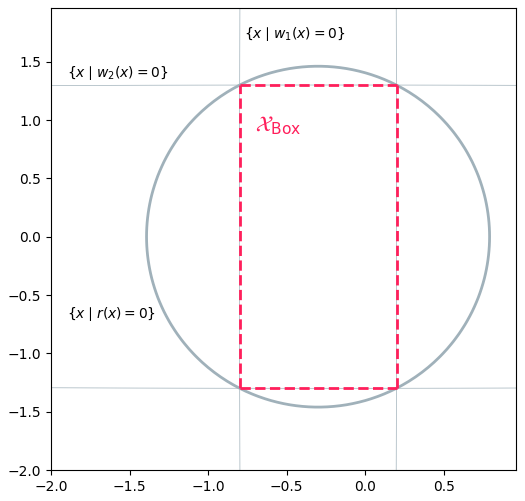
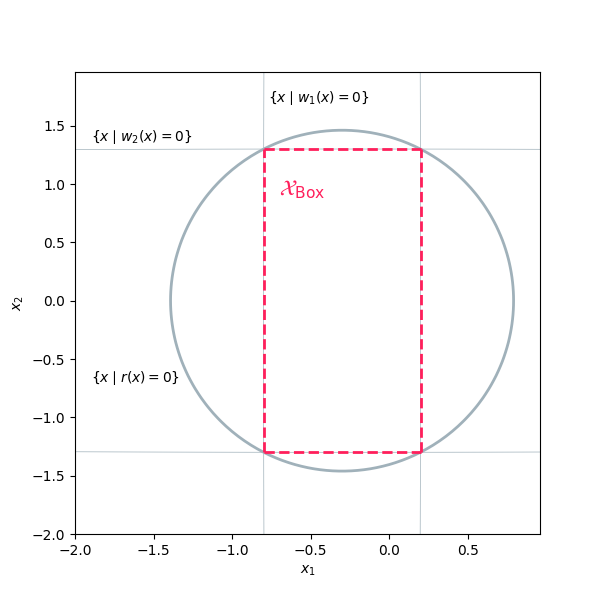
Update the examples to reflect latest library changes.

diff --git a/sosopt/polynomialconstraints/constraintprimitives/sumofsquaresprimitive.py b/sosopt/polynomialconstraints/constraintprimitives/sumofsquaresprimitive.py
@@ -10,12 +10,17 @@ from polymat.typing import (
 )
 
 from sosopt.coneconstraints.semidefiniteconstraint import init_semi_definite_constraint
-from sosopt.polymat.from_ import square_matricial_representation
+from sosopt.polymat.from_ import (
+    square_matricial_representation,
+    square_matricial_representation_sparse,
+)
 from sosopt.polynomialconstraints.constraintprimitives.polynomialconstraintprimitive import (
     PolynomialConstraintPrimitive,
 )
 from sosopt.polymat.decisionvariablesymbol import DecisionVariableSymbol
-from sosopt.polynomialconstraints.polynomialvariablesmixin import PolynomialVariablesMixin
+from sosopt.polynomialconstraints.polynomialvariablesmixin import (
+    PolynomialVariablesMixin,
+)
 
 
 @dataclassabc(frozen=True, slots=True)
@@ -27,8 +32,9 @@ class SumOfSquaresPrimitive(PolynomialVariablesMixin, PolynomialConstraintPrimit
 
     def gram_matrix(self, sparse_gram: bool):
         if sparse_gram:
-            return self.expression.to_gram_matrix(
-                self.polynomial_variable
+            return square_matricial_representation_sparse(
+                expression=self.expression,
+                variables=self.polynomial_variable,
             ).cache()
         else:
             return square_matricial_representation(
@@ -38,12 +44,12 @@ class SumOfSquaresPrimitive(PolynomialVariablesMixin, PolynomialConstraintPrimit
 
     def copy(self, /, **others):
         return replace(self, **others)
-    
+
     @override
     def to_cone_constraint(self, settings: dict):
         return init_semi_definite_constraint(
             name=self.name,
-            expression=self.gram_matrix(settings['sparse_gram']),
+            expression=self.gram_matrix(settings["sparse_gram"]),
             decision_variable_symbols=self.decision_variable_symbols,
         )
 

diff --git a/examples/readmeexample_plot.py b/examples/readmeexample_plot.py
@@ -1,7 +1,10 @@
 import numpy as np
 import numpy.matlib
 from matplotlib import pyplot
+
 import polymat
+from polymat.typing import State
+
 import sosopt
 
 state = polymat.init_state()
@@ -10,8 +13,11 @@ variable_names = ("x_1", "x_2", "x_3")
 x1, x2, x3 = tuple(polymat.define_variable(name) for name in variable_names)
 x = polymat.v_stack((x1, x2, x3))
 
-w1 = ((x1 + 0.3) / 0.5) ** 2 + (x2 / 20) ** 2 + (x3 / 20) ** 2 - 1
-w2 = ((x1 + 0.3) / 20) ** 2 + (x2 / 1.3) ** 2 + (x3 / 1.3) ** 2 - 1
+# w1 = ((x1 + 0.3) / 0.5) ** 2 + (x2 / 20) ** 2 + (x3 / 20) ** 2 - 1
+# w2 = ((x1 + 0.3) / 20) ** 2 + (x2 / 1.3) ** 2 + (x3 / 1.3) ** 2 - 1
+
+w1 = ((x1 + 0.3) / 0.5) ** 2 - 1
+w2 = (x2 / 1.3) ** 2 + (x3 / 1.3) ** 2 - 1
 
 r_var = sosopt.define_polynomial(
     name="r",
@@ -22,7 +28,7 @@ r = r_var - 1
 state, sympy_repr = polymat.to_sympy(r).apply(state)
 print(f"r={sympy_repr}")
 
-state, constraint = sosopt.psatz_putinar_constraint(
+state, constraint = sosopt.quadratic_module_constraint(
     name="rpos",
     smaller_than_zero=r,
     domain=sosopt.set_(
@@ -33,13 +39,13 @@ state, constraint = sosopt.psatz_putinar_constraint(
     ),
 ).apply(state)
 
-Qr_diag = r.to_gram_matrix(x).diag()
+Qr_diag = sosopt.gram_matrix(r, x).diag()
 
 problem = sosopt.sos_problem(
     lin_cost=-Qr_diag.sum(),
     quad_cost=Qr_diag,
     constraints=(constraint,),
-    solver=sosopt.cvx_opt_solver,
+    solver=sosopt.cvxopt_solver,
 )
 
 state, sos_result = problem.solve().apply(state)
@@ -90,4 +96,8 @@ ax.text(-1.9, 1.37, r'$\{x \mid w_2(x) = 0 \}$')
 ax.text(-1.9, -0.7, r'$\{x \mid r(x) = 0 \}$')
 ax.text(-0.7, 0.9, r'$\mathcal{X}_\text{Box}$', fontsize=16, color="#FF1F5B")
 
+ax.set_xlabel('$x_1$')
+ax.set_ylabel('$x_2$')
+
 pyplot.show()
+# fig.savefig('sosoptexample.pdf', bbox_inches='tight')

diff --git a/examples/debugconicproblem.py b/examples/debugconicproblem.py
@@ -31,7 +31,7 @@ print(f'r={sympy_repr}')
 
 # Apply Putinar's Positivstellensatz to ensure the cylindrical constraints (w1 and w2) 
 # are contained within the zero sublevel set of r.
-state, constraint = sosopt.sos_constraint_putinar(
+state, constraint = sosopt.quadratic_module_constraint(
     name="rpos",
     smaller_than_zero=r,
     domain=sosopt.set_(
@@ -43,20 +43,18 @@ state, constraint = sosopt.sos_constraint_putinar(
 ).apply(state)
 
 # Minimize the volume surrogate of the zero-sublevel set of r
-Qr_diag = r.to_gram_matrix(x).diag()
+Qr_diag = sosopt.gram_matrix(r, x).diag()
 
 # Define the SOS problem
 problem = sosopt.sos_problem(
     lin_cost=-Qr_diag.sum(),
     quad_cost=Qr_diag,
     constraints=(constraint,),
-    solver=sosopt.cvx_opt_solver,   # choose solver
+    solver=sosopt.cvxopt_solver,   # choose solver
     # solver=sosopt.mosek_solver,
 )
 
-conic_problem = problem.to_conic_problem()
-
-state, args = conic_problem.to_solver_args().apply(state)
+state, args = problem.to_solver_args().apply(state)
 
 # Conic problem summary
 #######################

diff --git a/examples/readmeexample.py b/examples/readmeexample.py
@@ -30,7 +30,7 @@ print(f'r={sympy_repr}')
 
 # Apply Putinar's Positivstellensatz to ensure the box-like set, encoded by w1 and w2, 
 # is contained within the zero sublevel set of r(x).
-state, constraint = sosopt.psatz_putinar_constraint(
+state, constraint = sosopt.quadratic_module_constraint(
     name="rpos",
     smaller_than_zero=r,
     domain=sosopt.set_(
@@ -42,14 +42,14 @@ state, constraint = sosopt.psatz_putinar_constraint(
 ).apply(state)
 
 # Minimize the volume surrogate of the zero-sublevel set of r(x)
-Qr_diag = r.to_gram_matrix(x).diag()
+Qr_diag = sosopt.gram_matrix(r, x).diag()
 
 # Define the SOS problem
 problem = sosopt.sos_problem(
     lin_cost=-Qr_diag.sum(),
     quad_cost=Qr_diag,
     constraints=(constraint,),
-    solver=sosopt.cvx_opt_solver,   # choose solver
+    solver=sosopt.cvxopt_solver,   # choose solver
     # solver=sosopt.mosek_solver,
 )
 

diff --git a/sosopt/solvers/solveargs.py b/sosopt/solvers/solveargs.py
@@ -36,7 +36,7 @@ class SolverArgs(NamedTuple):
 
     def to_summary(self):
         def gen_summary():
-            yield f'Number of variables: {self.n_var}'
+            yield f'Number of decision variables: {self.n_var}'
             yield f'Quadratic cost: {self.quad_cost is not None}'
 
             if self.semidef_cone:

diff --git a/sosopt/sosproblem.py b/sosopt/sosproblem.py
@@ -77,6 +77,9 @@ class SOSProblem:
 
         return statemonad.get_map_put(_to_conic_problem)
 
+    def to_solver_args(self):
+        return self.to_conic_problem().flat_map(lambda p: p.to_solver_args())
+
     def solve(self):
         return self.to_conic_problem().flat_map(lambda p: p.solve())
 

diff --git a/README.md b/README.md
@@ -88,27 +88,37 @@ Q = sosopt.define_polynomial(
 The polynomial constraints in the SOS problem can be defined in **SOSOpt** as follows:
 
 - **Equality Constraint**: This constraint enforces a polynomial expression to be equal to zero.
+    The following constraint:
     ``` python
     r_zero_constraint = sosopt.zero_polynomial_constraint(
         name='r_zero',
         equal_to_zero=r,
     )
     ```
+    enforces the equality constraint:
+    $$r(x) = 0.$$
 - **SOS Constraint**: This constraint ensures that a scalar polynomial expression belongs to the SOS Cone.
+    The following constraint:
     ``` python
     r_sos_constraint = sosopt.sos_constraint(
         name='r_sos',
         greater_than_zero=r,
     )
     ```
-- **SOS Matrix Constraint**: The constraint ensures a polynomial matrix expression belongs to the SOS Matrix Cone.
+    enforces the SOS constraint:
+    $$r(x) \in \Sigma[x].$$
+- **SOS Matrix Constraint**: This constraint ensures a polynomial matrix expression belongs to the SOS Matrix Cone.
+    The following constraint:
     ``` python
     q_sos_constraint = sosopt.sos_matrix_constraint(
         name='q_sos',
         greater_than_zero=q,
     )
     ```
-- **Quadratic Module Constraint**: The constraint defines a non-negativity condition on a subset of the states space using a quadratic module.
+    enforces the SOS constraint:
+    $$v^\top q(x) v \in \Sigma[x, v].$$
+- **Quadratic Module Constraint**: This constraint defines a non-negativity condition on a subset of the states space using a quadratic module construction following Putinar's Positivstellensatz.
+    The following constraint:
     ``` python
     r_qm_constraint = sosopt.quadratic_module_constraint(
         name='r_qm',
@@ -118,6 +128,9 @@ The polynomial constraints in the SOS problem can be defined in **SOSOpt** as fo
         )
     )
     ```
+    enforces the SOS constraints:
+    $$\gamma_w(x) \in \Sigma[x]$$
+    $$r(x) + \gamma_w(x) w(x) \in \Sigma[x].$$
 
 ### Defining an SOS Problem
 
@@ -138,7 +151,7 @@ problem = sosopt.sos_problem(
     lin_cost=Q.trace(),
     quad_cost=Q.diag(),
     constraints=(r_sos_constraint,),
-    solver=solver,
+    solver=polymat.cvxopt_solver,
 )
 
 # solve SOS problem
@@ -188,7 +201,7 @@ However, for a large matrix $Q_p$ many additional variables need to be introduce
 To account for this, a hyristic can be enabled that preselect a specific value for $\alpha$.
 This heursitic constructs a gram matrix in a way that prioritizes nonzero entries corresponding to monomial in $Z(x)$ that involve multiple variables.
 In the above example, $\alpha=0$ is selected for $Q_p$.
-This heuristic can be enabled as follows:
+This heuristic is enabled by default and can be disabled as follows:
 
 ``` python
 problem = sosopt.sos_problem(
@@ -196,7 +209,7 @@ problem = sosopt.sos_problem(
     quad_cost=Q.diag(),
     constraints=(r_sos_constraint,),
     solver=solver,
-    sparse_gram =True,
+    sparse_gram =False,
 )
 ```
 
@@ -340,5 +353,7 @@ This figure illustrates the contour of the zero-sublevel sets of the resulting p
 Below are some references related to this project:
 
 * [PolyMat](https://github.com/MichaelSchneeberger/polymat) is a Python library designed for the representation and manipulation of multivariate polynomial matrices.
-* [Advanced safety filter](https://github.com/MichaelSchneeberger/advanced-safety-filter) includes Jupyter notebooks that model and simulate the concept of an advanced safety filter using SOSOpt.
-* [SumOfSqaures.py](https://github.com/yuanchenyang/SumOfSquares.py) is a simple sum-of-squares Python library built on `sympy`, leading to increased computation time when converting an SOS problem into a SDP.
+* [Advanced safety filter](https://github.com/MichaelSchneeberger/advanced-safety-filter) includes Jupyter notebooks that model and simulate the concept of an advanced safety filter using **SOSOpt**.
+* [SumOfSqaures.py](https://github.com/yuanchenyang/SumOfSquares.py) is a simple sum-of-squares Python library built on *sympy*, leading to increased computation time when converting an SOS problem into a SDP.
+* [SOSTOOLS](https://github.com/oxfordcontrol/SOSTOOLS) powerful SOS solver written in $MATLAB$.
+* [SumOfSqaures.jl](https://github.com/jump-dev/SumOfSquares.jl) powerful SOS solver written in $Julia$.
